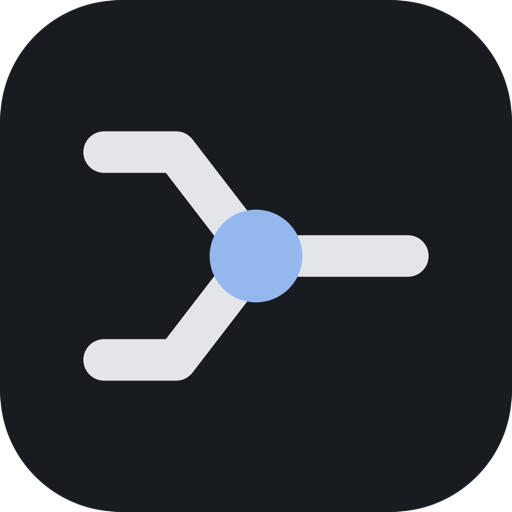
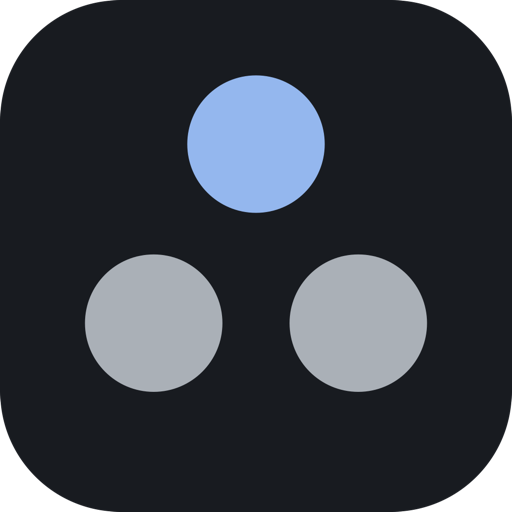
A new mark: three agents, one of them holding (#210)
The old mark was two paths merging into one. It was drawn when this
project
was called **Lanes** and it said *"lanes converge"* — the name went in
August
2026, `lane` is retired everywhere else in the tree with guards to keep
it
out, and the logo went on saying it for another year because no guard
looks
at artwork.

**Three dots, one coloured.** The peers are drawn at equal weight
because
neither is subordinate, and the holder is distinguished by *colour*
rather
than size or brightness, because what sets it apart is not rank.

It also survives being small, which the old one did not: at 16px a
junction
and three round-capped strokes resolve into a smudge, and three filled
circles stay three circles. The peers use the `fg-2` token rather than
full
`fg` for the same reason — compared at 120, 64 and 32 before choosing:
at
full `fg` two white dots overpower a mid-blue accent and the holder
reads as
a hole; at `fg-3` they go muddy.

Drawn twice, as before: the SVG the board serves, and the Swift that
renders
the macOS app icon (which cannot parse SVG without a build dependency).
`TestTheAppIconMatchesTheProductMark` holds them together.

**Two dead files go with it.**

- `docs/dibs-mark.svg` was a *third* design, drawn for the rename in a
commit
called "a mark for the new name" and never wired into anything. The repo
has
  been carrying a decision to change the mark that nobody carried out.
- `docs/social-preview.png` is the Lanes-era social card: it says LANES,
shows
[…]

Changed region(s): [[0.1562, 0.125, 0.8438, 0.7812]]

diff --git a/internal/notify/app/icon_darwin.swift b/internal/notify/app/icon_darwin.swift
@@ -1,10 +1,10 @@
 // dibs-icon: renders the product mark to PNG, at whatever size is asked for.
 //
 // The mark is defined once, in internal/assets/icon.svg, and drawn here rather
-// than parsed from it. That is a deliberate duplication of four primitives: a
-// rounded tile, three round-capped polylines and a dot. Parsing SVG would mean
-// shipping a parser or a build dependency on librsvg to produce an icon, and
-// the whole geometry is nine numbers.
+// than parsed from it. That is a deliberate duplication of two primitives: a
+// rounded tile and three circles. Parsing SVG would mean shipping a parser or
+// a build dependency on librsvg to produce an icon, and the whole geometry is
+// nine numbers.
 //
 // `TestTheAppIconMatchesTheProductMark` keeps the two honest by comparing the
 // numbers in this file with the ones in the SVG, so a mark that changes in one
@@ -44,23 +44,19 @@ ctx.addPath(CGPath(roundedRect: CGRect(x: 0, y: 0, width: 32, height: 32),
                    cornerWidth: 7.5, cornerHeight: 7.5, transform: nil))
 ctx.fillPath()
 
-// <g stroke="#dcdee2" stroke-width="2.6" stroke-linecap="round" stroke-linejoin="round">
-ctx.setStrokeColor(rgb(0xDCDEE2))
-ctx.setLineWidth(2.6)
-ctx.setLineCap(.round)
-ctx.setLineJoin(.round)
-for pts in [[(6.5, 9.5), (11.0, 9.5), (16.0, 16.0)],     // M6.5 9.5 h4.5 l5 6.5
-            [(6.5, 22.5), (11.0, 22.5), (16.0, 16.0)],   // M6.5 22.5 h4.5 l5 -6.5
-            [(16.0, 16.0), (25.5, 16.0)]] {              // M16 16 h9.5
-    ctx.beginPath()
-    ctx.move(to: CGPoint(x: pts[0].0, y: pts[0].1))
-    for p in pts.dropFirst() { ctx.addLine(to: CGPoint(x: p.0, y: p.1)) }
-    ctx.strokePath()
+func dot(_ cx: CGFloat, _ cy: CGFloat, _ r: CGFloat, _ hex: UInt32) {
+    ctx.setFillColor(rgb(hex))
+    ctx.fillEllipse(in: CGRect(x: cx - r, y: cy - r, width: r * 2, height: r * 2))
 }
 
-// <circle cx="16" cy="16" r="2.9" fill="#83a7ea"/>
-ctx.setFillColor(rgb(0x83A7EA))
-ctx.fillEllipse(in: CGRect(x: 16 - 2.9, y: 16 - 2.9, width: 5.8, height: 5.8))
+// Three agents, one of them holding: the accent is the holder, the two
+// peers are equal to each other because neither is subordinate.
+// <circle cx="16" cy="9" r="4.3" fill="#83a7ea"/>
+dot(16, 9, 4.3, 0x83A7EA)
+// <circle cx="9.6" cy="20.2" r="4.3" fill="#9aa0a8"/>
+dot(9.6, 20.2, 4.3, 0x9AA0A8)
+// <circle cx="22.4" cy="20.2" r="4.3" fill="#9aa0a8"/>
+dot(22.4, 20.2, 4.3, 0x9AA0A8)
 
 guard let image = ctx.makeImage(),
       let dest = CGImageDestinationCreateWithURL(

diff --git a/internal/hygiene/icon_copies_test.go b/internal/hygiene/icon_copies_test.go
@@ -35,6 +35,30 @@ func TestTheMarkIsTheSameFileEverywhereItShips(t *testing.T) {
 			"compares three copies of nothing passes", canonical, len(want))
 	}
 
+	// The SVG pair, which is the same problem in the other format and has
+	// already bitten: `docs/icon.svg` and `internal/assets/icon.svg` are
+	// copies because go:embed cannot reach above its own package, a fix
+	// once landed on the docs one alone, and the copy COMPILED INTO THE
+	// BINARY stayed broken while the repository looked repaired. The
+	// well-formedness check beside this one records that and does not
+	// compare them, so a mark changed in one file and not the other would
+	// pass both. Round after the mark changed, 2026-09-22.
+	svgWant, err := os.ReadFile(filepath.Join(root, "internal/assets/icon.svg")) // #nosec G304
+	if err != nil {
+		t.Fatalf("the embedded mark is missing (%s): it is what the board serves", err)
+	}
+	svgGot, err := os.ReadFile(filepath.Join(root, "docs/icon.svg")) // #nosec G304
+	if err != nil {
+		t.Errorf("docs/icon.svg is missing: README.md renders it")
+	} else if !bytes.Equal(svgGot, svgWant) {
+		t.Errorf("docs/icon.svg has drifted from internal/assets/icon.svg (%s vs %s). "+
+			"The second is the one go:embed compiles into the binary and the board "+
+			"serves; the first is the one a reader sees in the README. A fix that "+
+			"lands on the docs copy alone leaves the shipped mark broken and the "+
+			"repository looking repaired, which has happened.",
+			short(svgGot), short(svgWant))
+	}
+
 	// Each copy, and what ships it.
 	for path, why := range map[string]string{
 		"tools/mcpbundle/icon-512.png": "the MCP Bundle embeds this one (go:embed cannot " +

diff --git a/CHANGELOG.md b/CHANGELOG.md
@@ -5,6 +5,27 @@ versions follow [Semantic Versioning](https://semver.org/spec/v2.0.0.html).
 
 ## [Unreleased]
 
+### Changed
+
+- **A new mark: three agents, one of them holding a claim.** The old one was
+  two paths merging into one, drawn when this project was called Lanes and
+  saying "lanes converge". The name went in August 2026 and `lane` is retired
+  everywhere else in the tree with guards to keep it out; the logo kept saying
+  it because no guard looks at artwork. Three filled dots also survive being
+  small, which the merging strokes did not: at 16px the junction and the three
+  lines resolved into a smudge. The peers are drawn at equal weight because
+  neither is subordinate, and the holder is distinguished by colour rather
+  than by size, because what sets it apart is not rank.
+
+  `docs/dibs-mark.svg`, a third design drawn for the rename and never wired
+  in, goes with it, and so does `docs/social-preview.png`, a Lanes-era card
+  referenced by nothing and superseded by the one GitHub actually serves. The
+  drift guard now covers the two SVG copies as well as the four PNGs: they
+  diverged once before, the fix landed on the documentation copy alone, and
+  the one compiled into the binary stayed broken while the repository looked
+  repaired.
+
+
 ## [0.0.8] - 2026-09-21
 
 ### Added
